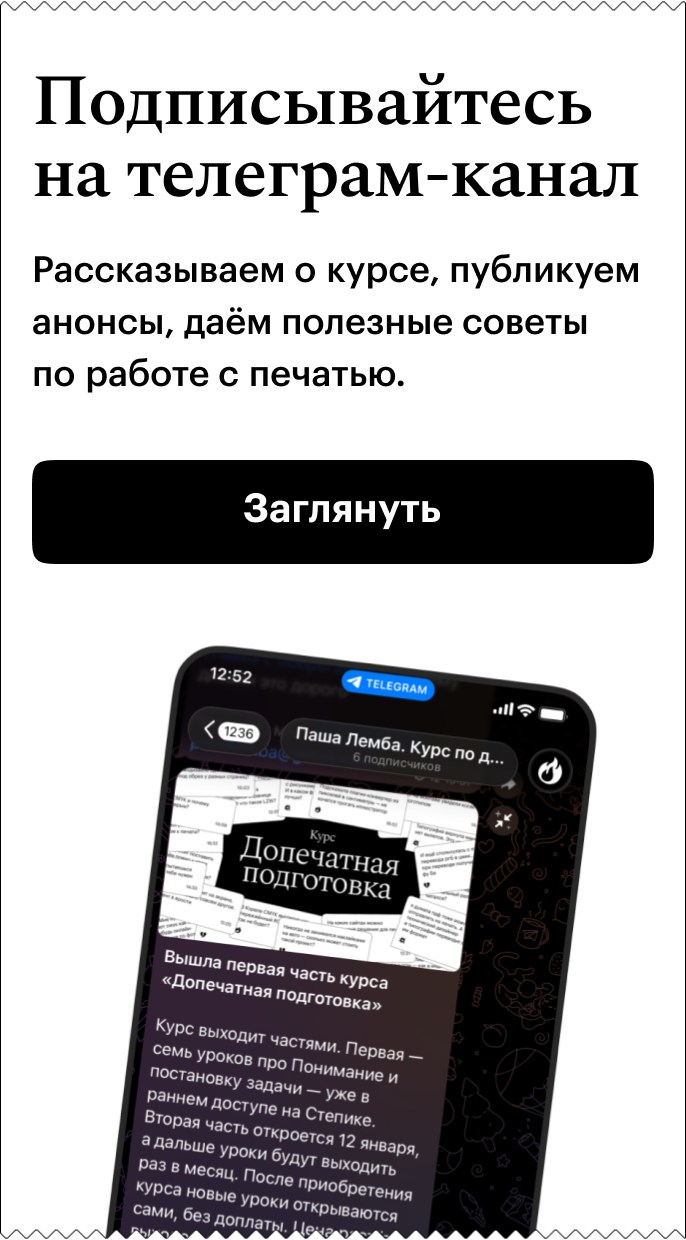
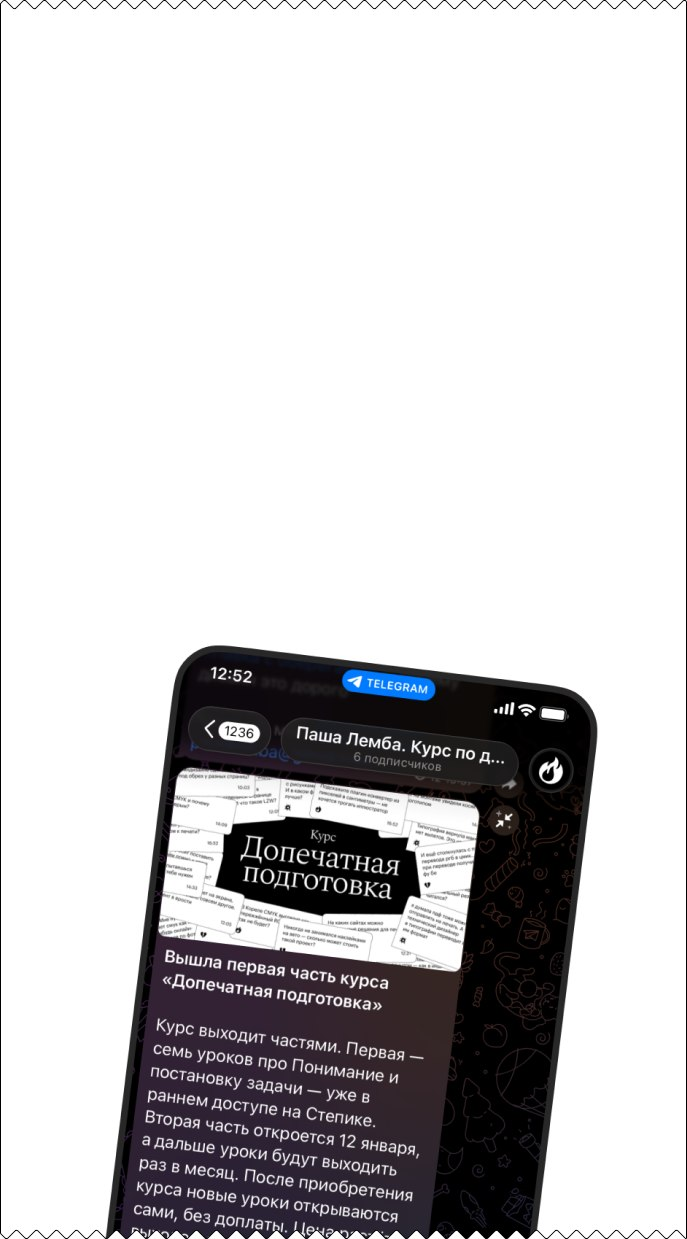
Мобильная телеграм-карточка без впечатанного текста
Выгрузка узла из макета приносила заголовок, абзац и кнопку вместе
с рамкой — поверх них ложился наш живой текст, и на телефоне это
читалось как двоение. Взял исходную картинку из rawImages: в ней
только рамка с телефоном.

Заодно сверил текст по краске макета — кнопка стояла на 10px ниже,
отбивка над ней 30 вместо 40.

diff --git a/site/style.css b/site/style.css
@@ -1191,7 +1191,7 @@ img {
   .tg-title, .tg-text, .tg .btn { position: relative; width: auto; }
   .tg-title { font-weight: 600; font-size: 36px; letter-spacing: -0.72px; }
   .tg-text { margin-top: 16px; max-width: 311px; font-size: 18px; line-height: 1.45; }
-  .tg .btn { display: flex; height: 52px; margin-top: 40px; }
+  .tg .btn { display: flex; height: 52px; margin-top: 30px; }
 
   /* ===== Вопросы ===== */
   .faq { margin-top: 80px !important; }

diff --git a/site/privacy/index.html b/site/privacy/index.html
@@ -17,7 +17,7 @@
   <link rel="icon" href="../favicon.png" sizes="32x32" type="image/png">
   <link rel="apple-touch-icon" href="../apple-touch-icon.png">
 
-  <link rel="stylesheet" href="../style.css?v=142">
+  <link rel="stylesheet" href="../style.css?v=143">
 </head>
 <body>
   <!-- Yandex.Metrika counter -->

diff --git a/site/index.html b/site/index.html
@@ -28,7 +28,7 @@
   <link rel="icon" href="favicon.png" sizes="32x32" type="image/png">
   <link rel="apple-touch-icon" href="apple-touch-icon.png">
 
-  <link rel="stylesheet" href="style.css?v=142">
+  <link rel="stylesheet" href="style.css?v=143">
 </head>
 <body>
   <!-- Yandex.Metrika counter -->

diff --git a/CLAUDE.md b/CLAUDE.md
@@ -1334,6 +1334,25 @@ Android с экономией трафика и Firefox, если автозап
 по месту в секции.
 Выбирает `<picture>` с `media="(max-width: 759px)"`.
 
+**У мобильной карточки в макете текст впечатан в картинку, и выгружать узел нельзя.**
+Узел `2078:1794` — плоский фрейм без детей: заголовок, абзац и кнопка нарисованы
+прямо в растре. Выгрузишь его — текст приедет вместе с рамкой и ляжет под наш,
+живой, с чуть другими переносами и отбивками. Выглядит это как двоение текста,
+и автор заметила это с телефона. На десктопе такой ловушки нет: узел `2087:2080`
+отдаёт только рамку с телефоном.
+
+**Брать надо не экспорт узла, а исходную картинку.** `download_assets` кладёт рядом
+с `export` ещё и `rawImages` — ту самую заливку, которую автор положила во фрейм.
+Текста в ней нет (проверка по краске: непустые ряды только 0..9 — верхние зубцы —
+и от 645 вниз — телефон), размер 687×1239, по краям ровно один тёмный пиксель.
+Дальше `tojpg.ps1` на белой подложке, без ресайза.
+
+**Текст и кнопку на мобильном сверяем по краске этой же картинки** — живых текстовых
+узлов в макете нет вовсе. Эталон (от верха карточки): заголовок 36..67 и 81..107,
+абзац 127..145, 153..170, 179..197, кнопка 230..282, телефон от 323. Ширины строк
+должны совпасть до пикселя: 278, 302 / 302, 277, 185 / 311. На этом и нашлась
+кнопка, стоявшая на 10px ниже макетной, — отбивка над ней 30, а не 40.
+
 Раньше рамка рисовалась CSS'ом классом `.zig` (боковые линии плюс зубцы inline-SVG'ом
 с шагом 10px), а фото накладывалось отдельной полосой. После правок макета фото перестало
 совпадать с рамкой и полезло за нижний край; теперь, когда автор отдаёт плоскую карточку
@@ -1345,7 +1364,7 @@ Android с экономией трафика и Firefox, если автозап
 тёмный пиксель по краю вместо двух — если выгрузку обрезать или отресайзить не ровно
 в два раза, линия либо пропадёт, либо станет серой кашей. На этом я один раз попался:
 отресайзил 1973 → 1972, и правый край остался без обводки совсем. Поэтому файлы держим
-в натуральных пикселях (сейчас 1972×880 и 686×1240), а размер задаёт CSS.
+в натуральных пикселях (сейчас 1972×880 и 687×1239), а размер задаёт CSS.
 Замер по рендеру: колонка обводки была 18 по светлоте, стала 127 — ровно вдвое легче.
 
 **Выгрузка из кита приходит склеенной с фоном секции.** MCP отдаёт картинку уже
